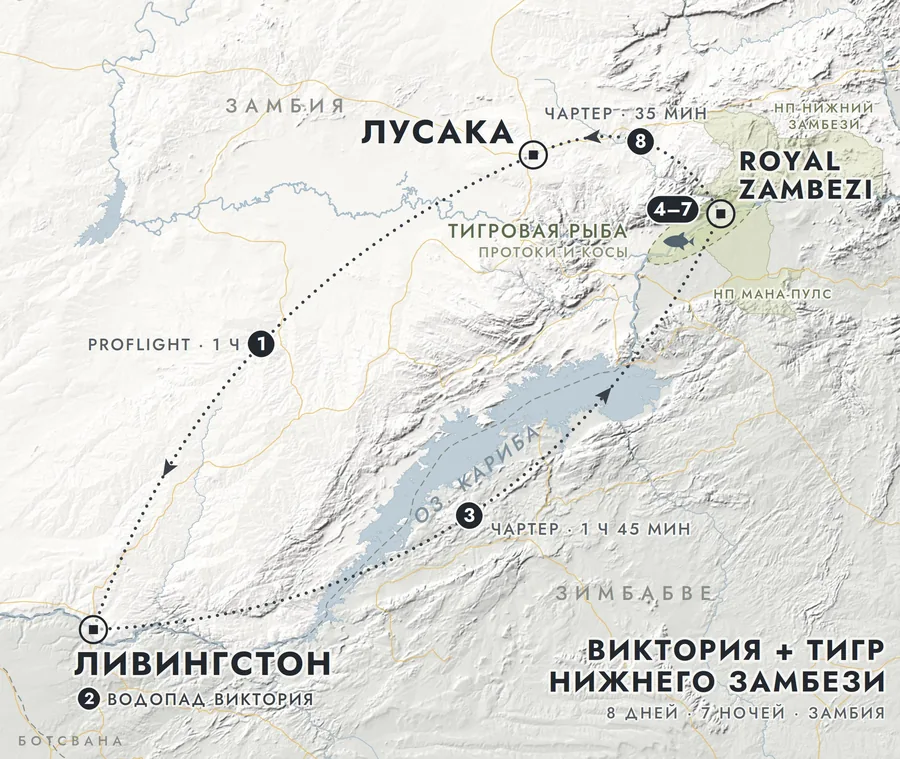
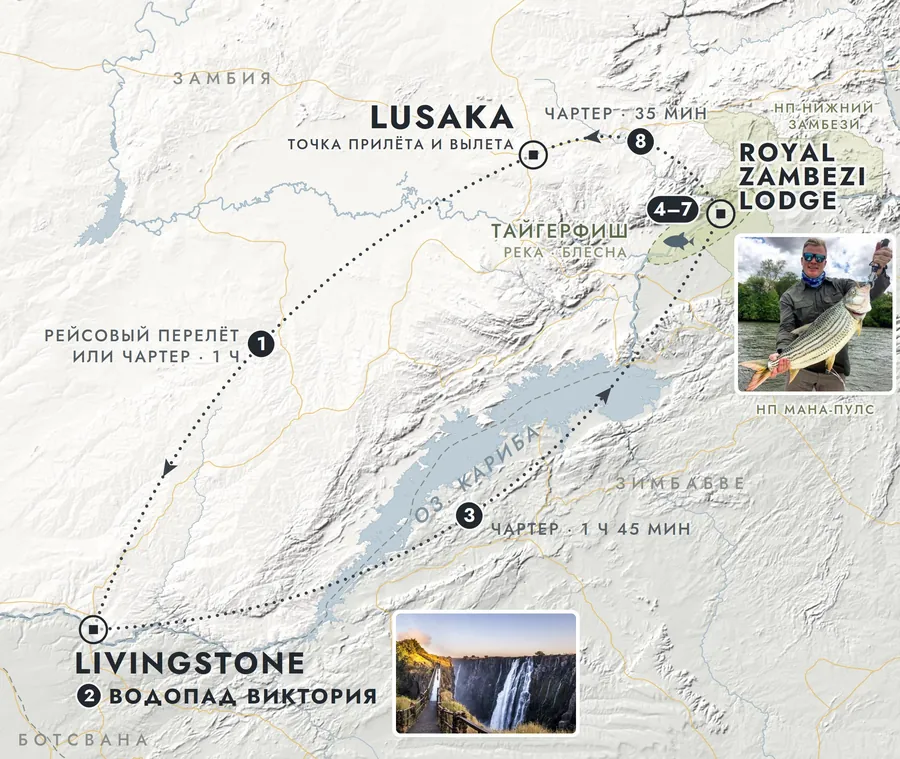
zambia-tigerfish: новое название, эссе, новые фото и тексты дней 3-8, карта

diff --git a/expeditions/zambia-tigerfish/index.html b/expeditions/zambia-tigerfish/index.html
@@ -3,11 +3,11 @@
 <head>
 <meta charset="utf-8">
 <meta name="viewport" content="width=device-width, initial-scale=1">
-<title>Виктория + Тигр Нижнего Замбези | 7 Expeditions</title>
-<meta name="description" content="Частный тур: водопад Виктория и рыбалка на тигровую рыбу в Нижнем Замбези. Восемь дней, два лоджа, три коротких перелёта.">
+<title>Тайгерфиш в Замбии | 7 Expeditions</title>
+<meta name="description" content="Частный тур: водопад Виктория и рыбалка на тайгерфиш в Нижнем Замбези. Восемь дней, два лоджа, три коротких перелёта.">
 <meta name="robots" content="noindex, nofollow">
 <meta property="og:type" content="website">
-<meta property="og:title" content="Виктория + Тигр Нижнего Замбези | 7 Expeditions">
+<meta property="og:title" content="Тайгерфиш в Замбии | 7 Expeditions">
 <meta property="og:description" content="Частный тур. Восемь дней, семь ночей. Конец сентября, начало октября 2027.">
 <meta property="og:image" content="https://7expeditions.com/expeditions/zambia-tigerfish/img/cover.jpg">
 <link rel="preconnect" href="https://fonts.googleapis.com">
@@ -117,15 +117,15 @@ footer .meta{margin:0}
 <section class="hero">
   <div class="photo">
     <picture>
-      <source media="(orientation: portrait)" type="image/webp" srcset="/expeditions/zambia-tigerfish/img/cover-m-600.webp 600w, /expeditions/zambia-tigerfish/img/cover-m.webp 1000w" sizes="100vw">
-      <source media="(orientation: portrait)" srcset="/expeditions/zambia-tigerfish/img/cover-m-600.jpg 600w, /expeditions/zambia-tigerfish/img/cover-m.jpg 1000w" sizes="100vw">
-      <source type="image/webp" srcset="/expeditions/zambia-tigerfish/img/cover-800.webp 1000w, /expeditions/zambia-tigerfish/img/cover.webp 2000w" sizes="100vw">
-      <img src="/expeditions/zambia-tigerfish/img/cover.jpg" srcset="/expeditions/zambia-tigerfish/img/cover-800.jpg 1000w, /expeditions/zambia-tigerfish/img/cover.jpg 2000w" sizes="100vw" alt="Водопад Виктория с вертолёта, граница Замбии и Зимбабве" width="2000" height="1333" fetchpriority="high" decoding="async">
+      <source media="(orientation: portrait)" type="image/webp" srcset="/expeditions/zambia-tigerfish/img/cover-m-600.webp 600w, /expeditions/zambia-tigerfish/img/cover-m.webp 960w" sizes="100vw">
+      <source media="(orientation: portrait)" srcset="/expeditions/zambia-tigerfish/img/cover-m-600.jpg 600w, /expeditions/zambia-tigerfish/img/cover-m.jpg 960w" sizes="100vw">
+      <source type="image/webp" srcset="/expeditions/zambia-tigerfish/img/cover-800.webp 1000w, /expeditions/zambia-tigerfish/img/cover.webp 1280w" sizes="100vw">
+      <img src="/expeditions/zambia-tigerfish/img/cover.jpg" srcset="/expeditions/zambia-tigerfish/img/cover-800.jpg 1000w, /expeditions/zambia-tigerfish/img/cover.jpg 1280w" sizes="100vw" alt="Рыбак с крупной тигровой рыбой на Замбези" width="1280" height="1280" fetchpriority="high" decoding="async">
     </picture>
   </div>
   <div class="col">
     <p class="eyebrow">Частный тур</p>
-    <h1>Виктория + Тигр Нижнего Замбези</h1>
+    <h1>Тайгерфиш в Замбии</h1>
     <p class="meta">Восемь дней, семь ночей. Конец сентября, начало октября 2027.</p>
   </div>
 </section>
@@ -143,28 +143,40 @@ footer .meta{margin:0}
   <p class="cap col" style="margin-top:.8rem"><span>Маршрут. Цифрами отмечены дни.</span><span><a href="/expeditions/zambia-tigerfish/img/map-full.jpg" target="_blank" rel="noopener">Открыть карту крупно</a></span></p>
 </section>
 
+<!-- О ПОЕЗДКЕ -->
+<section class="block" style="padding-top:.5rem">
+  <div class="col">
+    <h2>Зачем именно сюда</h2>
+    <p><b>Рыба.</b> Тайгерфиш живёт только в Африке. Это хищник с зубами, который бьёт блесну на скорости и сразу выходит в свечку, и за этим на Замбези летят со всего мира. Нижний Замбези, участок реки между плотиной Карибы и границей Мозамбика, считается лучшей водой для этой рыбы из тех, где рядом есть люкс. Обычная рыба здесь 3&#8209;10&nbsp;фунтов (1,5&#8209;4,5&nbsp;кг), рыба за 10&nbsp;фунтов ловится регулярно, старые тигры доходят до 18&#8209;20&nbsp;фунтов. Рекорд IGFA для этого вида, 35&nbsp;фунтов 7&nbsp;унций (16&nbsp;кг), поставлен в 2001 году на Карибе, в той же системе выше по течению. Вся рыба ловится и отпускается.</p>
+    <p><b>Время.</b> Конец сентября и начало октября это пик сезона. Сухой сезон, вода низкая, тёплая и прозрачная, рыба выходит на косы и в протоки и агрессивно кормится перед нерестом. Те же недели лучшие и для сафари: трава выгорела, звери держатся у реки. Водопад в это время маловодный, зато открыты Livingstone Island и купели на самой кромке.</p>
+    <p><b>Лодж.</b> Royal Zambezi Lodge единственный люксовый лодж на реке, где рыбалка ядро, а не опция: своя флотилия, профильные рыболовные гиды, снасти для спиннинга и нахлыста, полные дни на воде. 14&nbsp;сьютов, своя полоса, 35&nbsp;минут лёту от Лусаки. Первые две ночи в Royal Livingstone by Anantara, отеле на территории нацпарка Моси&#8209;оа&#8209;Тунья с собственным выходом к водопаду.</p>
+    <p><b>Логистика и безопасность.</b> Замбия одна из самых спокойных стран Африки. Весь маршрут это три коротких перелёта, ноль ночных переездов, точки рыбалки в 5&#8209;15&nbsp;минутах от лоджа. Малярийная зона, профилактика по назначению врача.</p>
+    <p><b>Виза.</b> Единая виза KAZA UniVisa действует в Замбии и Зимбабве и оформляется по прилёте в Лусаке. Переход по мосту на зимбабвийскую сторону водопада отдельной визы не требует.</p>
+  </div>
+</section>
+
 <!-- ДЕНЬ 1 -->
 <section class="block" style="padding-top:1rem">
   <div class="photo">
     <picture>
-      <source type="image/webp" srcset="/expeditions/zambia-tigerfish/img/d01-cruise-800.webp 800w, /expeditions/zambia-tigerfish/img/d01-cruise.webp 1600w" sizes="100vw">
-      <img src="/expeditions/zambia-tigerfish/img/d01-cruise.jpg" srcset="/expeditions/zambia-tigerfish/img/d01-cruise-800.jpg 800w, /expeditions/zambia-tigerfish/img/d01-cruise.jpg 1600w" sizes="100vw" alt="Закатный круиз по Замбези, Ливингстон" width="1600" height="1070" loading="lazy" decoding="async">
+      <source type="image/webp" srcset="/expeditions/zambia-tigerfish/img/d01-angling-800.webp 800w, /expeditions/zambia-tigerfish/img/d01-angling.webp 1024w" sizes="100vw">
+      <img src="/expeditions/zambia-tigerfish/img/d01-angling.jpg" srcset="/expeditions/zambia-tigerfish/img/d01-angling-800.jpg 800w, /expeditions/zambia-tigerfish/img/d01-angling.jpg 1024w" sizes="100vw" alt="Рыбаки с гидом на лодке Royal Zambezi Lodge на Замбези" width="1024" height="683" loading="lazy" decoding="async">
     </picture>
   </div>
-  <p class="cap col"><span>Закатный круиз по Замбези. Ливингстон.</span></p>
+  <p class="cap col"><span>На воде. Фото Royal Zambezi Lodge.</span></p>
   <div class="col">
     <h2>День 1</h2>
     <p class="meta">Лусака, Ливингстон.</p>
     <p>Прилёт в Лусаку, иммиграция, пересадка на <a href="https://proflight-zambia.com/" target="_blank" rel="noopener">Proflight</a> (регулярный, 1&nbsp;ч) или чартер в Ливингстон. Трансфер 20&nbsp;мин в <a href="https://www.anantara.com/en/royal-livingstone" target="_blank" rel="noopener">Royal Livingstone by Anantara</a>: отель на самом водопаде, свой вход, брызги видны с террас. Вечером закатный круиз по Замбези от отельного причала.</p>
     <p class="stay"><b>Ночь.</b> Royal Livingstone by Anantara.</p>
   </div>
-  <div class="photo natural" style="margin-top:1.6rem">
+  <div class="photo" style="margin-top:1.6rem">
     <picture>
       <source type="image/webp" srcset="/expeditions/zambia-tigerfish/img/d01-hotel-800.webp 800w, /expeditions/zambia-tigerfish/img/d01-hotel.webp 1600w" sizes="100vw">
-      <img src="/expeditions/zambia-tigerfish/img/d01-hotel.jpg" srcset="/expeditions/zambia-tigerfish/img/d01-hotel-800.jpg 800w, /expeditions/zambia-tigerfish/img/d01-hotel.jpg 1600w" sizes="100vw" alt="Бассейн Royal Livingstone на берегу Замбези, Ливингстон" width="1600" height="1060" loading="lazy" decoding="async">
+      <img src="/expeditions/zambia-tigerfish/img/d01-hotel.jpg" srcset="/expeditions/zambia-tigerfish/img/d01-hotel-800.jpg 800w, /expeditions/zambia-tigerfish/img/d01-hotel.jpg 1600w" sizes="100vw" alt="Корпуса Royal Livingstone by Anantara и зебры на лужайке" width="1600" height="864" loading="lazy" decoding="async">
     </picture>
   </div>
-  <p class="cap col"><span>Royal Livingstone by Anantara. Бассейн над рекой.</span></p>
+  <p class="cap col"><span>Royal Livingstone by Anantara. Фото отеля.</span></p>
 </section>
 
 <!-- ДЕНЬ 2 -->
@@ -179,7 +191,7 @@ footer .meta{margin:0}
   <div class="col">
     <h2>День 2</h2>
     <p class="meta">Водопад Виктория, полный день.</p>
-    <p>Утро: вертолётный облёт водопада и ущелья Батока. Затем переход по мосту в Зимбабве, пешая прогулка вдоль полноводной стороны, 2&nbsp;часа, дорожки сухие. Обед в Lookout Cafe над каньоном. К 15:00 в отеле, бассейн, SPA у реки. По желанию Livingstone Island на кромке водопада (с сентября по декабрь, лодка от причала отеля).</p>
+    <p>Утро: вертолётный облёт водопада и ущелья Батока. Затем переход по мосту в Зимбабве, пешая прогулка вдоль полноводной стороны, 2&nbsp;часа, дорожки сухие. Обед в Lookout Cafe над каньоном. К 15:00 в отеле, бассейн, SPA у реки.</p>
     <p class="stay"><b>Ночь.</b> Royal Livingstone by Anantara.</p>
   </div>
   <div class="trio" style="margin-top:1.6rem">
@@ -203,78 +215,76 @@ footer .meta{margin:0}
 <section class="block" style="padding-top:0">
   <div class="photo">
     <picture>
-      <source type="image/webp" srcset="/expeditions/zambia-tigerfish/img/d03-charter-800.webp 800w, /expeditions/zambia-tigerfish/img/d03-charter.webp 1600w" sizes="100vw">
-      <img src="/expeditions/zambia-tigerfish/img/d03-charter.jpg" srcset="/expeditions/zambia-tigerfish/img/d03-charter-800.jpg 800w, /expeditions/zambia-tigerfish/img/d03-charter.jpg 1600w" sizes="100vw" alt="Лёгкий самолёт на грунтовой полосе в долине Замбези" width="1600" height="1200" loading="lazy" decoding="async">
+      <source type="image/webp" srcset="/expeditions/zambia-tigerfish/img/d03-charter-800.webp 800w, /expeditions/zambia-tigerfish/img/d03-charter.webp 1024w" sizes="100vw">
+      <img src="/expeditions/zambia-tigerfish/img/d03-charter.jpg" srcset="/expeditions/zambia-tigerfish/img/d03-charter-800.jpg 800w, /expeditions/zambia-tigerfish/img/d03-charter.jpg 1024w" sizes="100vw" alt="Экипаж чартера у самолёта на полосе Royal Airstrip" width="1024" height="683" loading="lazy" decoding="async">
     </picture>
   </div>
-  <p class="cap col"><span>Грунтовая полоса в долине Замбези.</span></p>
+  <p class="cap col"><span>Royal Airstrip. Фото Royal Zambezi Lodge.</span></p>
   <div class="col">
     <h2>День 3</h2>
-    <p class="meta">Ливингстон, Royal Zambezi Lodge.</p>
-    <p>Утро свободное. Чартер из Ливингстона на Royal Airstrip (около 1&nbsp;ч 45&nbsp;мин), трансфер 10&nbsp;мин. Размещение в 10 синглах, обед, инструктаж рыболовных гидов. Вечером закатный круиз по реке всей группой.</p>
+    <p class="meta">Livingstone Island, Royal Zambezi Lodge.</p>
+    <p>07:30 лодка от причала отеля на Livingstone Island: выход на кромку водопада и Angel&#8217;s Pool (с сентября по декабрь, низкая вода), завтрак на острове, к 09:30 в отеле. 11:00 чартер из Ливингстона на Royal Airstrip (около 1&nbsp;ч 45&nbsp;мин), трансфер 10&nbsp;мин. Обед, размещение в 10 синглах, инструктаж рыболовных гидов. 15:30 первая сессия на воде для рыбаков; для остальных закатный круиз по реке.</p>
     <p class="stay"><b>Ночь.</b> <a href="https://www.royalzambezilodge.com/" target="_blank" rel="noopener">Royal Zambezi Lodge</a>.</p>
   </div>
   <div class="photo natural" style="margin-top:1.6rem">
     <picture>
-      <source type="image/webp" srcset="/expeditions/zambia-tigerfish/img/d03-lodge-800.webp 800w, /expeditions/zambia-tigerfish/img/d03-lodge.webp 1280w" sizes="100vw">
-      <img src="/expeditions/zambia-tigerfish/img/d03-lodge.jpg" srcset="/expeditions/zambia-tigerfish/img/d03-lodge-800.jpg 800w, /expeditions/zambia-tigerfish/img/d03-lodge.jpg 1280w" sizes="100vw" alt="Бассейн Royal Zambezi Lodge над Замбези на закате" width="1280" height="854" loading="lazy" decoding="async">
+      <source type="image/webp" srcset="/expeditions/zambia-tigerfish/img/d03-deck-800.webp 800w, /expeditions/zambia-tigerfish/img/d03-deck.webp 1600w" sizes="100vw">
+      <img src="/expeditions/zambia-tigerfish/img/d03-deck.jpg" srcset="/expeditions/zambia-tigerfish/img/d03-deck-800.jpg 800w, /expeditions/zambia-tigerfish/img/d03-deck.jpg 1600w" sizes="100vw" alt="Гость на деке сьюта Royal Zambezi Lodge смотрит на реку" width="1600" height="2398" loading="lazy" decoding="async">
     </picture>
   </div>
-  <p class="cap col"><span>Royal Zambezi Lodge. Бассейн над рекой. Фото лоджа.</span></p>
+  <p class="cap col"><span>Дек сьюта над рекой. Фото Royal Zambezi Lodge.</span></p>
 </section>
 
 <!-- ДЕНЬ 4 -->
 <section class="block" style="padding-top:0">
   <div class="photo">
     <picture>
-      <source type="image/webp" srcset="/expeditions/zambia-tigerfish/img/d04-tigerfish-800.webp 800w, /expeditions/zambia-tigerfish/img/d04-tigerfish.webp 1600w" sizes="100vw">
-      <img src="/expeditions/zambia-tigerfish/img/d04-tigerfish.jpg" srcset="/expeditions/zambia-tigerfish/img/d04-tigerfish-800.jpg 800w, /expeditions/zambia-tigerfish/img/d04-tigerfish.jpg 1600w" sizes="100vw" alt="Тигровая рыба крупным планом, пасть с зубами" width="1600" height="1067" loading="lazy" decoding="async">
+      <source type="image/webp" srcset="/expeditions/zambia-tigerfish/img/d04-tiger1-800.webp 800w, /expeditions/zambia-tigerfish/img/d04-tiger1.webp 1440w" sizes="100vw">
+      <img src="/expeditions/zambia-tigerfish/img/d04-tiger1.jpg" srcset="/expeditions/zambia-tigerfish/img/d04-tiger1-800.jpg 800w, /expeditions/zambia-tigerfish/img/d04-tiger1.jpg 1440w" sizes="100vw" alt="Рыбак держит крупную тигровую рыбу на лодке, Нижний Замбези" width="1440" height="1440" loading="lazy" decoding="async">
     </picture>
   </div>
-  <p class="cap col"><span>Тигровая рыба.</span></p>
+  <p class="cap col"><span>Тайгерфиш. Нижний Замбези.</span></p>
   <div class="col">
     <h2>День 4</h2>
     <p class="meta">Рыбалка, первый день.</p>
-    <p>Рыбаки: с 06:00 до 11:00 и с 15:30 до 18:30, лодки по два-три человека с гидом, спиннинг/нахлыст.</p>
-    <p>Альтернативы: утренний сафари&#8209;драйв в нацпарк, SPA, вечером ночной драйв.</p>
+    <p>Вся группа на воде. С 06:00 до 11:00 и с 15:30 до 18:30, лодки по два&#8209;три человека с рыболовным гидом, спиннинг/нахлыст. Первый день это знакомство с рекой: косы и обратки у лоджа, техника проводки, работа с тигром на вываживании. Днём отдых у бассейна.</p>
     <p class="stay"><b>Ночь.</b> Royal Zambezi Lodge.</p>
   </div>
   <div class="photo" style="margin-top:1.6rem">
     <picture>
-      <source type="image/webp" srcset="/expeditions/zambia-tigerfish/img/d04-river-800.webp 800w, /expeditions/zambia-tigerfish/img/d04-river.webp 1600w" sizes="100vw">
-      <img src="/expeditions/zambia-tigerfish/img/d04-river.jpg" srcset="/expeditions/zambia-tigerfish/img/d04-river-800.jpg 800w, /expeditions/zambia-tigerfish/img/d04-river.jpg 1600w" sizes="100vw" alt="Слон на водопое у Замбези, эскарпмент на дальнем берегу" width="1600" height="1200" loading="lazy" decoding="async">
+      <source type="image/webp" srcset="/expeditions/zambia-tigerfish/img/d04-tiger2-800.webp 800w, /expeditions/zambia-tigerfish/img/d04-tiger2.webp 1440w" sizes="100vw">
+      <img src="/expeditions/zambia-tigerfish/img/d04-tiger2.jpg" srcset="/expeditions/zambia-tigerfish/img/d04-tiger2-800.jpg 800w, /expeditions/zambia-tigerfish/img/d04-tiger2.jpg 1440w" sizes="100vw" alt="Рыбак с тигровой рыбой в лодке, удилища на фоне неба" width="1440" height="1800" loading="lazy" decoding="async">
     </picture>
   </div>
-  <p class="cap col"><span>Замбези. Эскарпмент на дальнем берегу.</span></p>
+  <p class="cap col"><span>Тайгерфиш. Нижний Замбези.</span></p>
 </section>
 
 <!-- ДЕНЬ 5 -->
 <section class="block" style="padding-top:0">
   <div class="photo">
     <picture>
-      <source type="image/webp" srcset="/expeditions/zambia-tigerfish/img/d05-valley-800.webp 800w, /expeditions/zambia-tigerfish/img/d05-valley.webp 1600w" sizes="100vw">
-      <img src="/expeditions/zambia-tigerfish/img/d05-valley.jpg" srcset="/expeditions/zambia-tigerfish/img/d05-valley-800.jpg 800w, /expeditions/zambia-tigerfish/img/d05-valley.jpg 1600w" sizes="100vw" alt="Долина Замбези, деревья на острове и горы эскарпмента" width="1600" height="1200" loading="lazy" decoding="async">
+      <source type="image/webp" srcset="/expeditions/zambia-tigerfish/img/d05-tiger-800.webp 800w, /expeditions/zambia-tigerfish/img/d05-tiger.webp 1440w" sizes="100vw">
+      <img src="/expeditions/zambia-tigerfish/img/d05-tiger.jpg" srcset="/expeditions/zambia-tigerfish/img/d05-tiger-800.jpg 800w, /expeditions/zambia-tigerfish/img/d05-tiger.jpg 1440w" sizes="100vw" alt="Двое рыбаков с крупной тигровой рыбой на лодке, Замбези" width="1440" height="1439" loading="lazy" decoding="async">
     </picture>
   </div>
-  <p class="cap col"><span>Долина Замбези. Острова и эскарпмент.</span></p>
+  <p class="cap col"><span>Тайгерфиш. Нижний Замбези.</span></p>
   <div class="col">
     <h2>День 5</h2>
     <p class="meta">Рыбалка, второй день.</p>
-    <p>Рыбаки: протоки и косы выше лоджа, вунду на тяжёлую снасть по желанию.</p>
-    <p>Альтернативы: вертолётный облёт эскарпмента и долины Мана&#8209;Пулс, лодочное фотосафари, SPA.</p>
+    <p>Вся группа на воде. Смена участков: протоки и песчаные косы выше лоджа, где стоит крупная рыба. Вечерняя сессия на глубоких ямах, вунду на тяжёлую снасть по желанию.</p>
     <p class="stay"><b>Ночь.</b> Royal Zambezi Lodge.</p>
   </div>
 </section>
 
 <!-- ДЕНЬ 6: три кадра в ряд -->
 <section class="block" style="padding-top:0">
-  <div class="photo">
+  <div class="photo natural">
     <picture>
-      <source type="image/webp" srcset="/expeditions/zambia-tigerfish/img/d06-crossing-800.webp 800w, /expeditions/zambia-tigerfish/img/d06-crossing.webp 1600w" sizes="100vw">
-      <img src="/expeditions/zambia-tigerfish/img/d06-crossing.jpg" srcset="/expeditions/zambia-tigerfish/img/d06-crossing-800.jpg 800w, /expeditions/zambia-tigerfish/img/d06-crossing.jpg 1600w" sizes="100vw" alt="Стадо слонов переходит сухое русло у Royal Zambezi Lodge" width="1600" height="1082" loading="lazy" decoding="async">
+      <source type="image/webp" srcset="/expeditions/zambia-tigerfish/img/d06-lodge-800.webp 800w, /expeditions/zambia-tigerfish/img/d06-lodge.webp 816w" sizes="100vw">
+      <img src="/expeditions/zambia-tigerfish/img/d06-lodge.jpg" srcset="/expeditions/zambia-tigerfish/img/d06-lodge-800.jpg 800w, /expeditions/zambia-tigerfish/img/d06-lodge.jpg 816w" sizes="100vw" alt="Слон у гостевой зоны Royal Zambezi Lodge" width="816" height="546" loading="lazy" decoding="async">
     </picture>
   </div>
-  <p class="cap col"><span>Слоны у лоджа. Фото Royal Zambezi Lodge.</span></p>
+  <p class="cap col"><span>Слон в гостевой зоне лоджа. Фото Royal Zambezi Lodge.</span></p>
   <div class="col">
     <h2>День 6</h2>
     <p class="meta">Сафари&#8209;день для всей группы.</p>
@@ -302,16 +312,16 @@ footer .meta{margin:0}
 <section class="block" style="padding-top:0">
   <div class="photo">
     <picture>
-      <source type="image/webp" srcset="/expeditions/zambia-tigerfish/img/d07-river-800.webp 800w, /expeditions/zambia-tigerfish/img/d07-river.webp 1600w" sizes="100vw">
-      <img src="/expeditions/zambia-tigerfish/img/d07-river.jpg" srcset="/expeditions/zambia-tigerfish/img/d07-river-800.jpg 800w, /expeditions/zambia-tigerfish/img/d07-river.jpg 1600w" sizes="100vw" alt="Нижний Замбези, широкое русло и грозовое небо" width="1600" height="1064" loading="lazy" decoding="async">
+      <source type="image/webp" srcset="/expeditions/zambia-tigerfish/img/d05-valley-800.webp 800w, /expeditions/zambia-tigerfish/img/d05-valley.webp 1600w" sizes="100vw">
+      <img src="/expeditions/zambia-tigerfish/img/d05-valley.jpg" srcset="/expeditions/zambia-tigerfish/img/d05-valley-800.jpg 800w, /expeditions/zambia-tigerfish/img/d05-valley.jpg 1600w" sizes="100vw" alt="Долина Замбези, деревья на острове и горы на дальнем берегу" width="1600" height="1200" loading="lazy" decoding="async">
     </picture>
   </div>
-  <p class="cap col"><span>Нижний Замбези.</span></p>
+  <p class="cap col"><span>Долина Замбези. Горы Мана&#8209;Пулс на дальнем берегу.</span></p>
   <div class="col">
     <h2>День 7</h2>
-    <p class="meta">Рыбалка, третий день.</p>
-    <p>Рыбаки: дальний выход вниз к границе парка, полный день с обедом на острове.</p>
-    <p>Альтернативы: полнодневный драйв с бушевым завтраком, закатный круиз.</p>
+    <p class="meta">Рыбалка, третий день. Вертолёт и SPA.</p>
+    <p>Рыбаки: дальний выход вниз к границе парка, полный день с обедом на острове; здесь самые старые тигры.</p>
+    <p>Остальные: утром вертолётный облёт горного уступа над Замбези и долины Мана&#8209;Пулс (4 человека на рейс), после обеда SPA, вечером ночной драйв с прожектором.</p>
     <p class="stay"><b>Ночь.</b> Royal Zambezi Lodge.</p>
   </div>
 </section>
@@ -320,16 +330,25 @@ footer .meta{margin:0}
 <section class="block" style="padding-top:0">
   <div class="photo">
     <picture>
+      <source type="image/webp" srcset="/expeditions/zambia-tigerfish/img/d08-tiger-800.webp 800w, /expeditions/zambia-tigerfish/img/d08-tiger.webp 1440w" sizes="100vw">
+      <img src="/expeditions/zambia-tigerfish/img/d08-tiger.jpg" srcset="/expeditions/zambia-tigerfish/img/d08-tiger-800.jpg 800w, /expeditions/zambia-tigerfish/img/d08-tiger.jpg 1440w" sizes="100vw" alt="Рыбак с тигровой рыбой на носу лодки, Замбези" width="1440" height="1800" loading="lazy" decoding="async">
+    </picture>
+  </div>
+  <p class="cap col"><span>Тайгерфиш. Нижний Замбези.</span></p>
+  <div class="col">
+    <h2>День 8</h2>
+    <p class="meta">Рыбалка, четвёртый день. Утренний драйв. Вылет.</p>
+    <p>Рыбаки: с 06:00 до 10:00, последний шанс на трофей.</p>
+    <p>Остальные: утренний сафари&#8209;драйв в парк с бушевым завтраком.</p>
+    <p>Обед, чартер 35&nbsp;мин в Лусаку, международный вылет вечером.</p>
+  </div>
+  <div class="photo" style="margin-top:1.6rem">
+    <picture>
       <source type="image/webp" srcset="/expeditions/zambia-tigerfish/img/d08-sunset-800.webp 800w, /expeditions/zambia-tigerfish/img/d08-sunset.webp 1600w" sizes="100vw">
-      <img src="/expeditions/zambia-tigerfish/img/d08-sunset.jpg" srcset="/expeditions/zambia-tigerfish/img/d08-sunset-800.jpg 800w, /expeditions/zambia-tigerfish/img/d08-sunset.jpg 1600w" sizes="100vw" alt="Закат над Замбези, эскарпмент на горизонте" width="1600" height="1200" loading="lazy" decoding="async">
+      <img src="/expeditions/zambia-tigerfish/img/d08-sunset.jpg" srcset="/expeditions/zambia-tigerfish/img/d08-sunset-800.jpg 800w, /expeditions/zambia-tigerfish/img/d08-sunset.jpg 1600w" sizes="100vw" alt="Закат над Замбези, горы на горизонте" width="1600" height="1200" loading="lazy" decoding="async">
     </picture>
   </div>
   <p class="cap col"><span>Закат над Замбези.</span></p>
-  <div class="col">
-    <h2>День 8</h2>
-    <p class="meta">Рыбалка, четвёртый день. Вылет.</p>
-    <p>Утренняя сессия с 06:00 до 10:00, последний шанс на трофей. Обед, чартер 35&nbsp;мин в Лусаку, международный вылет вечером.</p>
-  </div>
 </section>
 
 <!-- РАННИЙ ОТЪЕЗД -->
@@ -337,17 +356,6 @@ footer .meta{margin:0}
   <div class="col">
     <h2>Ранний отъезд</h2>
     <p>Кто уходит раньше: из Royal чартер в Лусаку в любой день (35&nbsp;мин), стыковка на вечерние рейсы Emirates и Qatar. Без ломки программы для остальных.</p>
-  </div>
-</section>
-
-<!-- КЛЮЧЕВЫЕ ТОЧКИ -->
-<section class="block" style="padding-top:1rem">
-  <div class="col">
-    <h2>Ключевые точки</h2>
-    <p>Два лоджа, три коротких перелёта, ноль ночных переездов.</p>
-    <p>Ежедневный выбор лодка/машина/SPA: штатный формат Royal.</p>
-    <p>Проверить до брони: KAZA UniVisa для казахстанских паспортов (иначе зимбабвийская виза на границе), синглы без доплаты в обоих отелях.</p>
-    <p>Оба отеля работают без алкоголя под запрос группы.</p>
   </div>
 </section>
 
